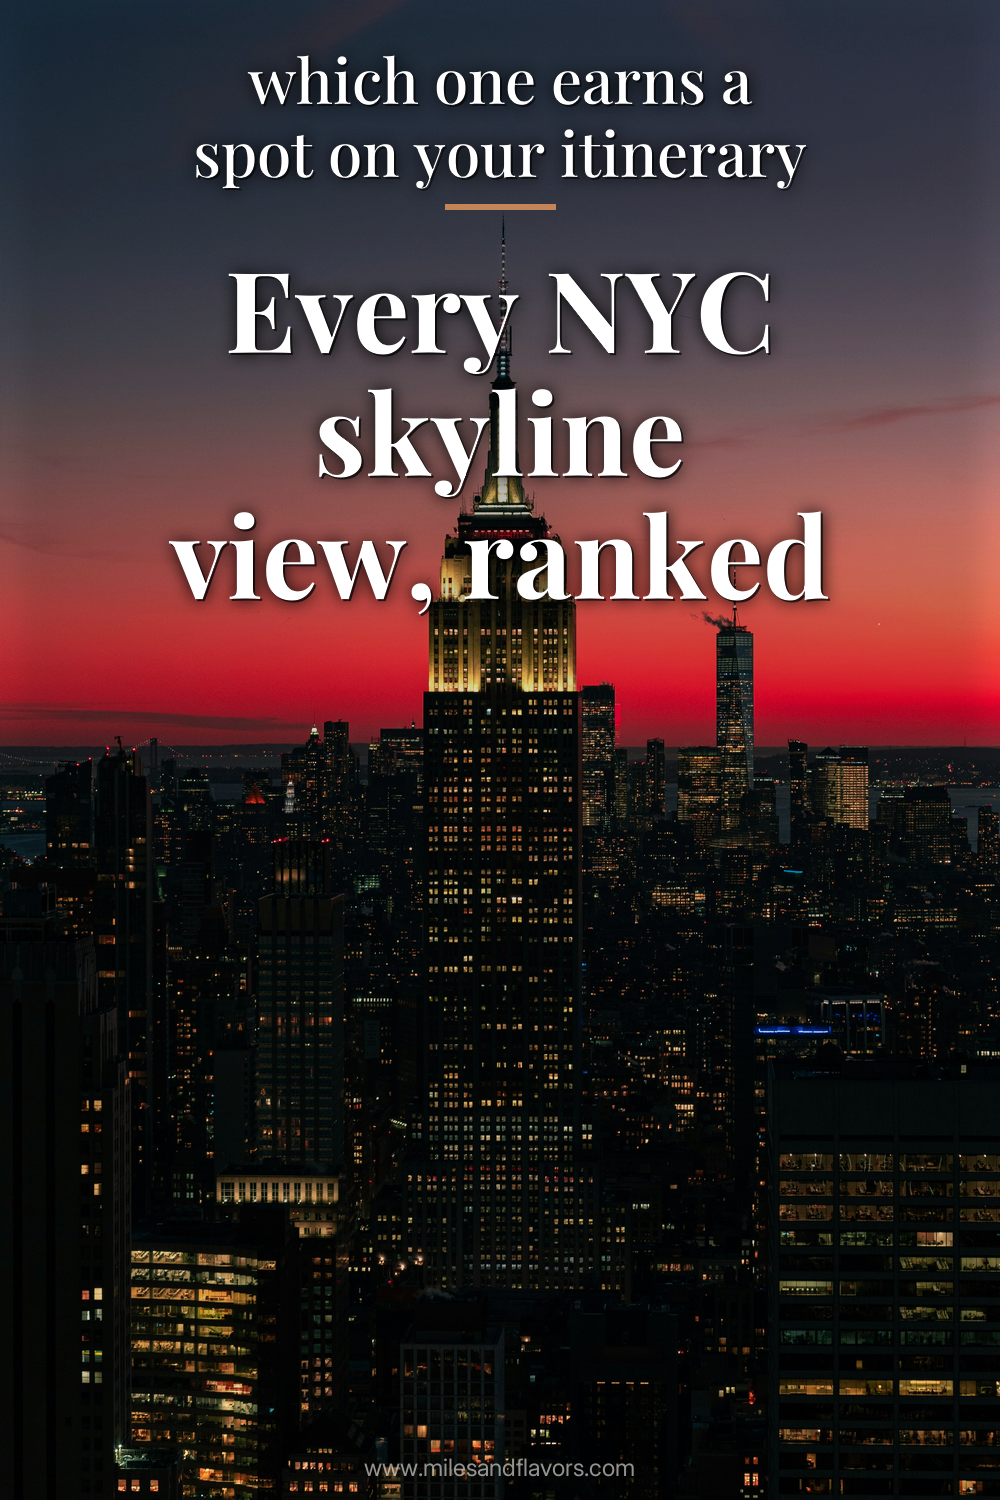
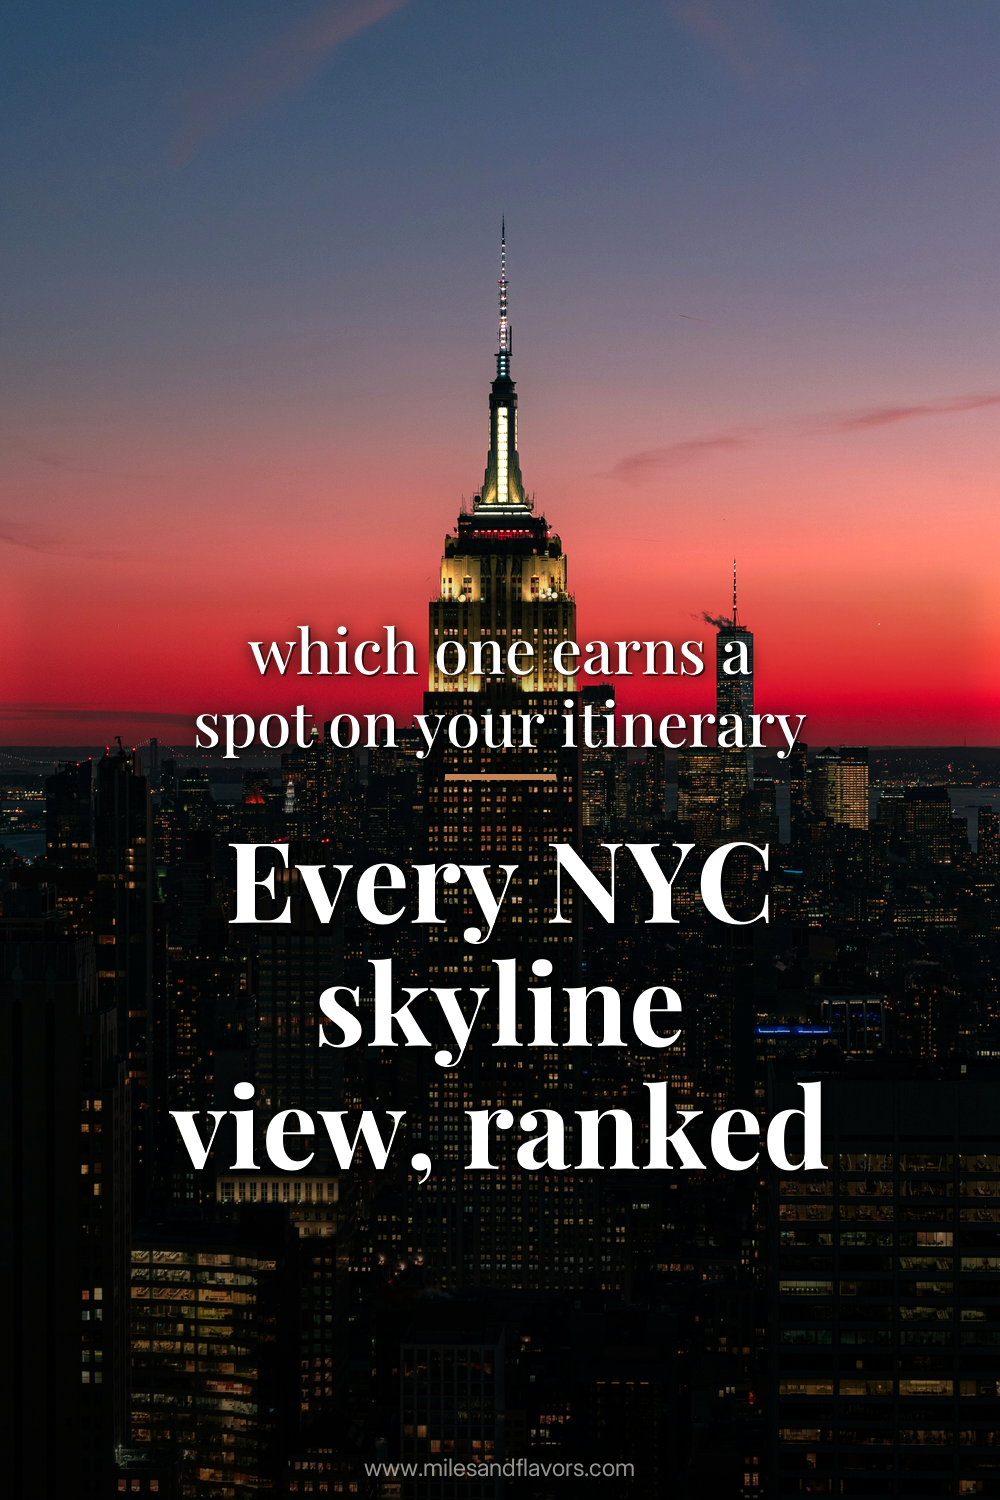
Fix pin text placement: content-aware clutter avoidance + bottom fixes
render.py now nudges the text box within its zone toward the least busy
part of the photo (edge-density check), with a narrow escape valve for
cases where the whole assigned zone is far worse than elsewhere (e.g.
Sagrada Familia spires vs. clear sky). Also moves 4 specific pins to
bottom placement per request (Met Cloisters, NYC skyline ranked, NYC
ferry, Central Park playgrounds), with escape disabled so the explicit
placement choice sticks.

diff --git a/render.py b/render.py
@@ -16,6 +16,7 @@ Használat:
   python render_hybrid.py best-things-to-do-in-london
 """
 import csv, os, sys, glob
+import numpy as np
 from PIL import Image, ImageDraw, ImageFont, ImageFilter, ImageStat, ImageEnhance
 
 ROOT   = os.path.dirname(os.path.abspath(__file__))
@@ -163,6 +164,62 @@ def zone_gradient(base, zone):
     return Image.alpha_composite(base, grad)
 
 
+def clutter_score(gray_arr, y0, y1):
+    """Edge energy per pixel in a horizontal band — high = busy (ornate detail,
+    faces, hard edges), low = calm (sky, water, uniform texture). Used so text
+    doesn't land on visual clutter just because a Template forces a zone."""
+    y0 = max(0, y0); y1 = min(gray_arr.shape[0], y1)
+    if y1 <= y0:
+        return 1e9
+    band = gray_arr[y0:y1, :].astype(np.int16)
+    gy = np.abs(np.diff(band, axis=0)).sum() if band.shape[0] > 1 else 0
+    gx = np.abs(np.diff(band, axis=1)).sum()
+    return (gy + gx) / (band.shape[0] * band.shape[1])
+
+
+def best_block_bottom(photo_rgb, zone, block_h, default_bottom, allow_escape=True):
+    """
+    Nudges the text block within its assigned zone toward the least busy spot.
+    If the WHOLE assigned zone is clearly worse than some other part of the
+    photo (e.g. Template says 'middle' but that's ornate architecture while
+    the top is calm sky), escape to the better spot instead of forcing it —
+    unless allow_escape=False (an explicit user placement choice for this pin).
+    """
+    gray = np.array(photo_rgb.convert("L"))
+    step = 20
+    zone_ranges = {
+        "top":    (int(H * 0.30), int(H * 0.52)),
+        "middle": (int(H * 0.56), int(H * 0.78)),
+        "bottom": (int(H * 0.78), int(H * 0.93)),
+    }
+    lo, hi = zone_ranges.get(zone, zone_ranges["bottom"])
+
+    def scan(lo, hi):
+        best, best_score = None, None
+        for bottom in range(lo, hi, step):
+            top = bottom - block_h
+            if top < 0:
+                continue
+            score = clutter_score(gray, top - 40, bottom + 20)
+            if best_score is None or score < best_score:
+                best_score, best = score, bottom
+        return best, best_score
+
+    zone_best, zone_score = scan(lo, hi)
+    if zone_best is None:
+        return default_bottom
+
+    if not allow_escape:
+        return zone_best
+
+    global_lo, global_hi = int(H * 0.18), int(H * 0.92)
+    global_best, global_score = scan(global_lo, global_hi)
+
+    if global_best is not None and global_score < zone_score * 0.6:
+        return global_best
+    return zone_best
+
+
 def adaptive_text_color(photo_rgb, text_zone_top):
     """
     Mintavételezi a fotót a szöveg zónájában (text_zone_top-tól aljáig),
@@ -209,7 +266,7 @@ def parse_template(template):
     return zone_override, overlay_alpha, brightness
 
 
-def render_hybrid_pin(bold, light, photos, zone_override=None, overlay_alpha=90, brightness=1.0):
+def render_hybrid_pin(bold, light, photos, zone_override=None, overlay_alpha=90, brightness=1.0, allow_escape=True):
     """
     Hybrid layout v3 — SWA stílus, M&F betűkkel + adaptív szín.
       - Teljes fotó, semmi doboz/sáv
@@ -249,13 +306,14 @@ def render_hybrid_pin(bold, light, photos, zone_override=None, overlay_alpha=90,
     else:
         block_h = len(L1)*lh1
 
-    # 4. Szöveg pozíció a zóna szerint
+    # 4. Szöveg pozíció a zóna szerint, a zónán belül a legkevésbé zsúfolt sávra igazítva
     if zone == "top":
-        block_bottom = int(H * 0.40)
+        default_bottom = int(H * 0.40)
     elif zone == "middle":
-        block_bottom = int(H * 0.67)
+        default_bottom = int(H * 0.67)
     else:
-        block_bottom = int(H * 0.91)
+        default_bottom = int(H * 0.91)
+    block_bottom = best_block_bottom(raw_photo, zone, block_h, default_bottom, allow_escape=allow_escape)
     text_top = block_bottom - block_h
 
     # 5. Adaptív szövegszín (fotó alapján, gradient ELŐTT mintavételezve)
@@ -325,7 +383,7 @@ def render_hybrid_pin(bold, light, photos, zone_override=None, overlay_alpha=90,
     return base.convert("RGB")
 
 
-def render_one(r, col):
+def render_one(r, col, allow_escape=True):
     url_val = r[col["URL"]]
     slug = url_val.replace("https://milesandflavors.com/","").split("#")[0].strip("/")
     bold  = r[col["Pin bold (vastag)"]]
@@ -367,7 +425,7 @@ def render_one(r, col):
 
     photos = [load(files[start])]
     effective_zone = zone_override if zone_override else "bottom"
-    img = render_hybrid_pin(bold, light, photos, zone_override=effective_zone, overlay_alpha=overlay_alpha, brightness=brightness)
+    img = render_hybrid_pin(bold, light, photos, zone_override=effective_zone, overlay_alpha=overlay_alpha, brightness=brightness, allow_escape=allow_escape)
     datum = r[col["Datum"]].strip() if "Datum" in col else ""
     ido   = r[col["Idopont"]].strip().replace(":", "-") if "Idopont" in col else ""
     if datum and ido:
